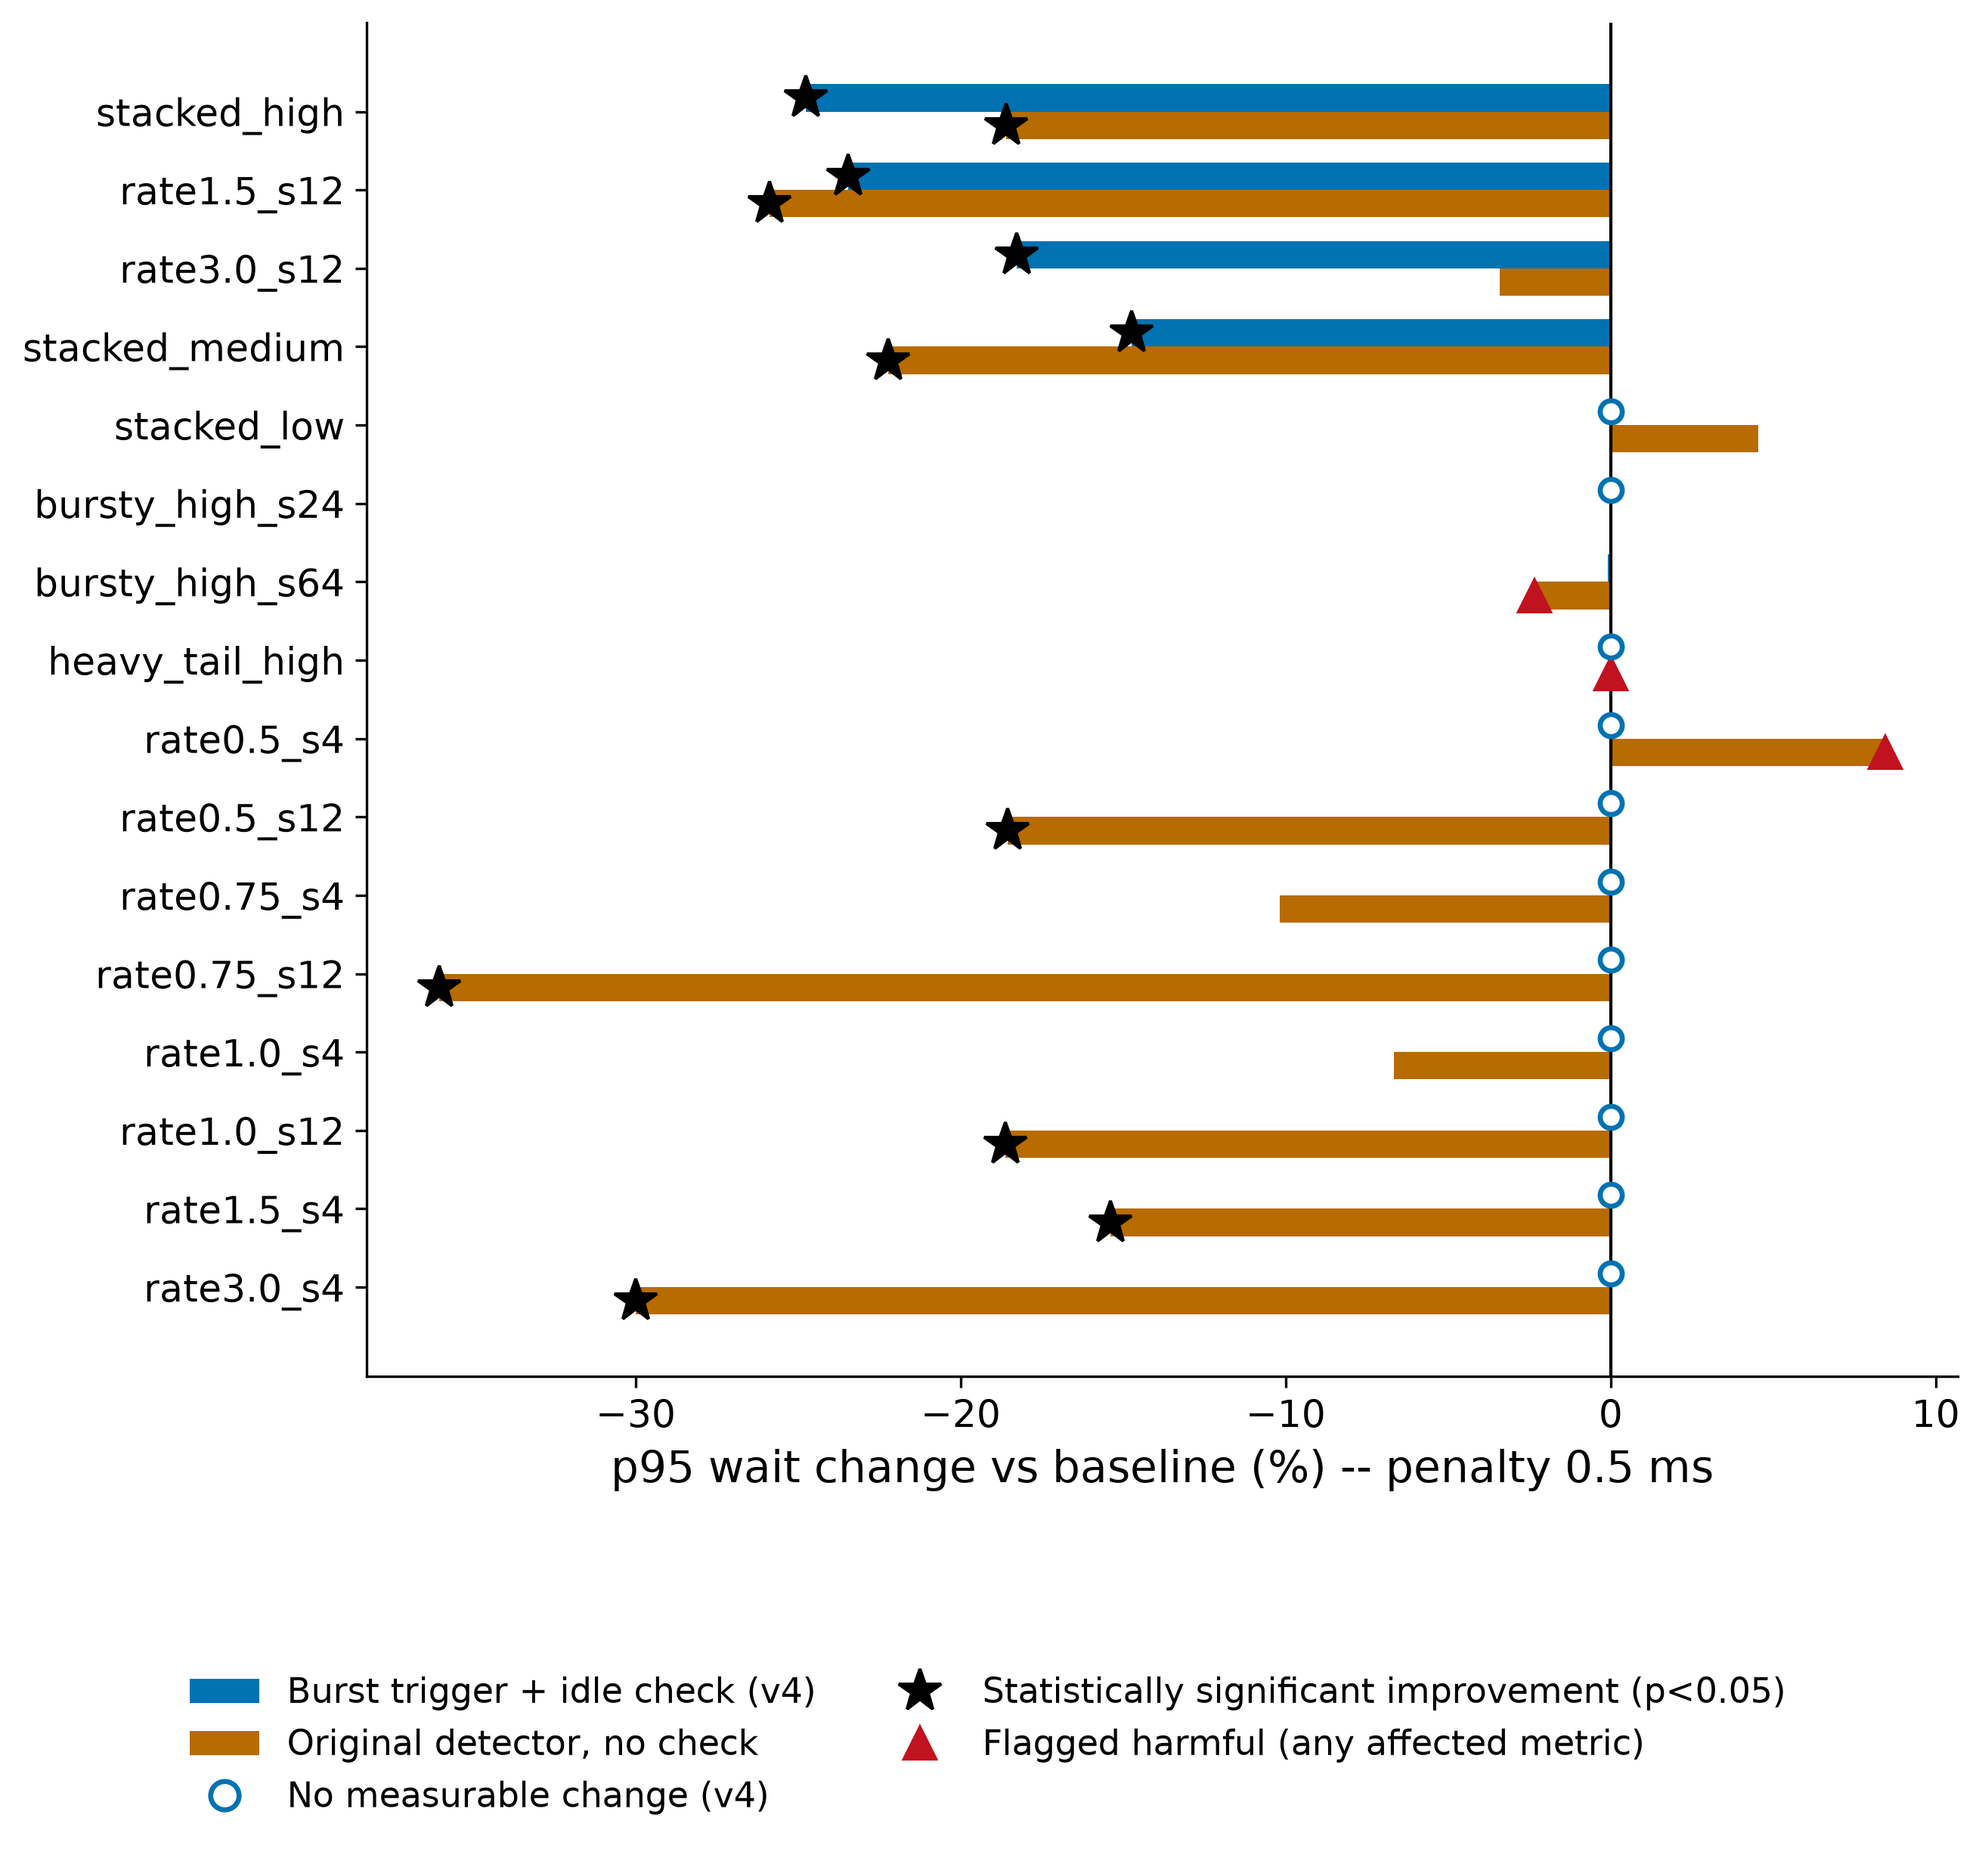
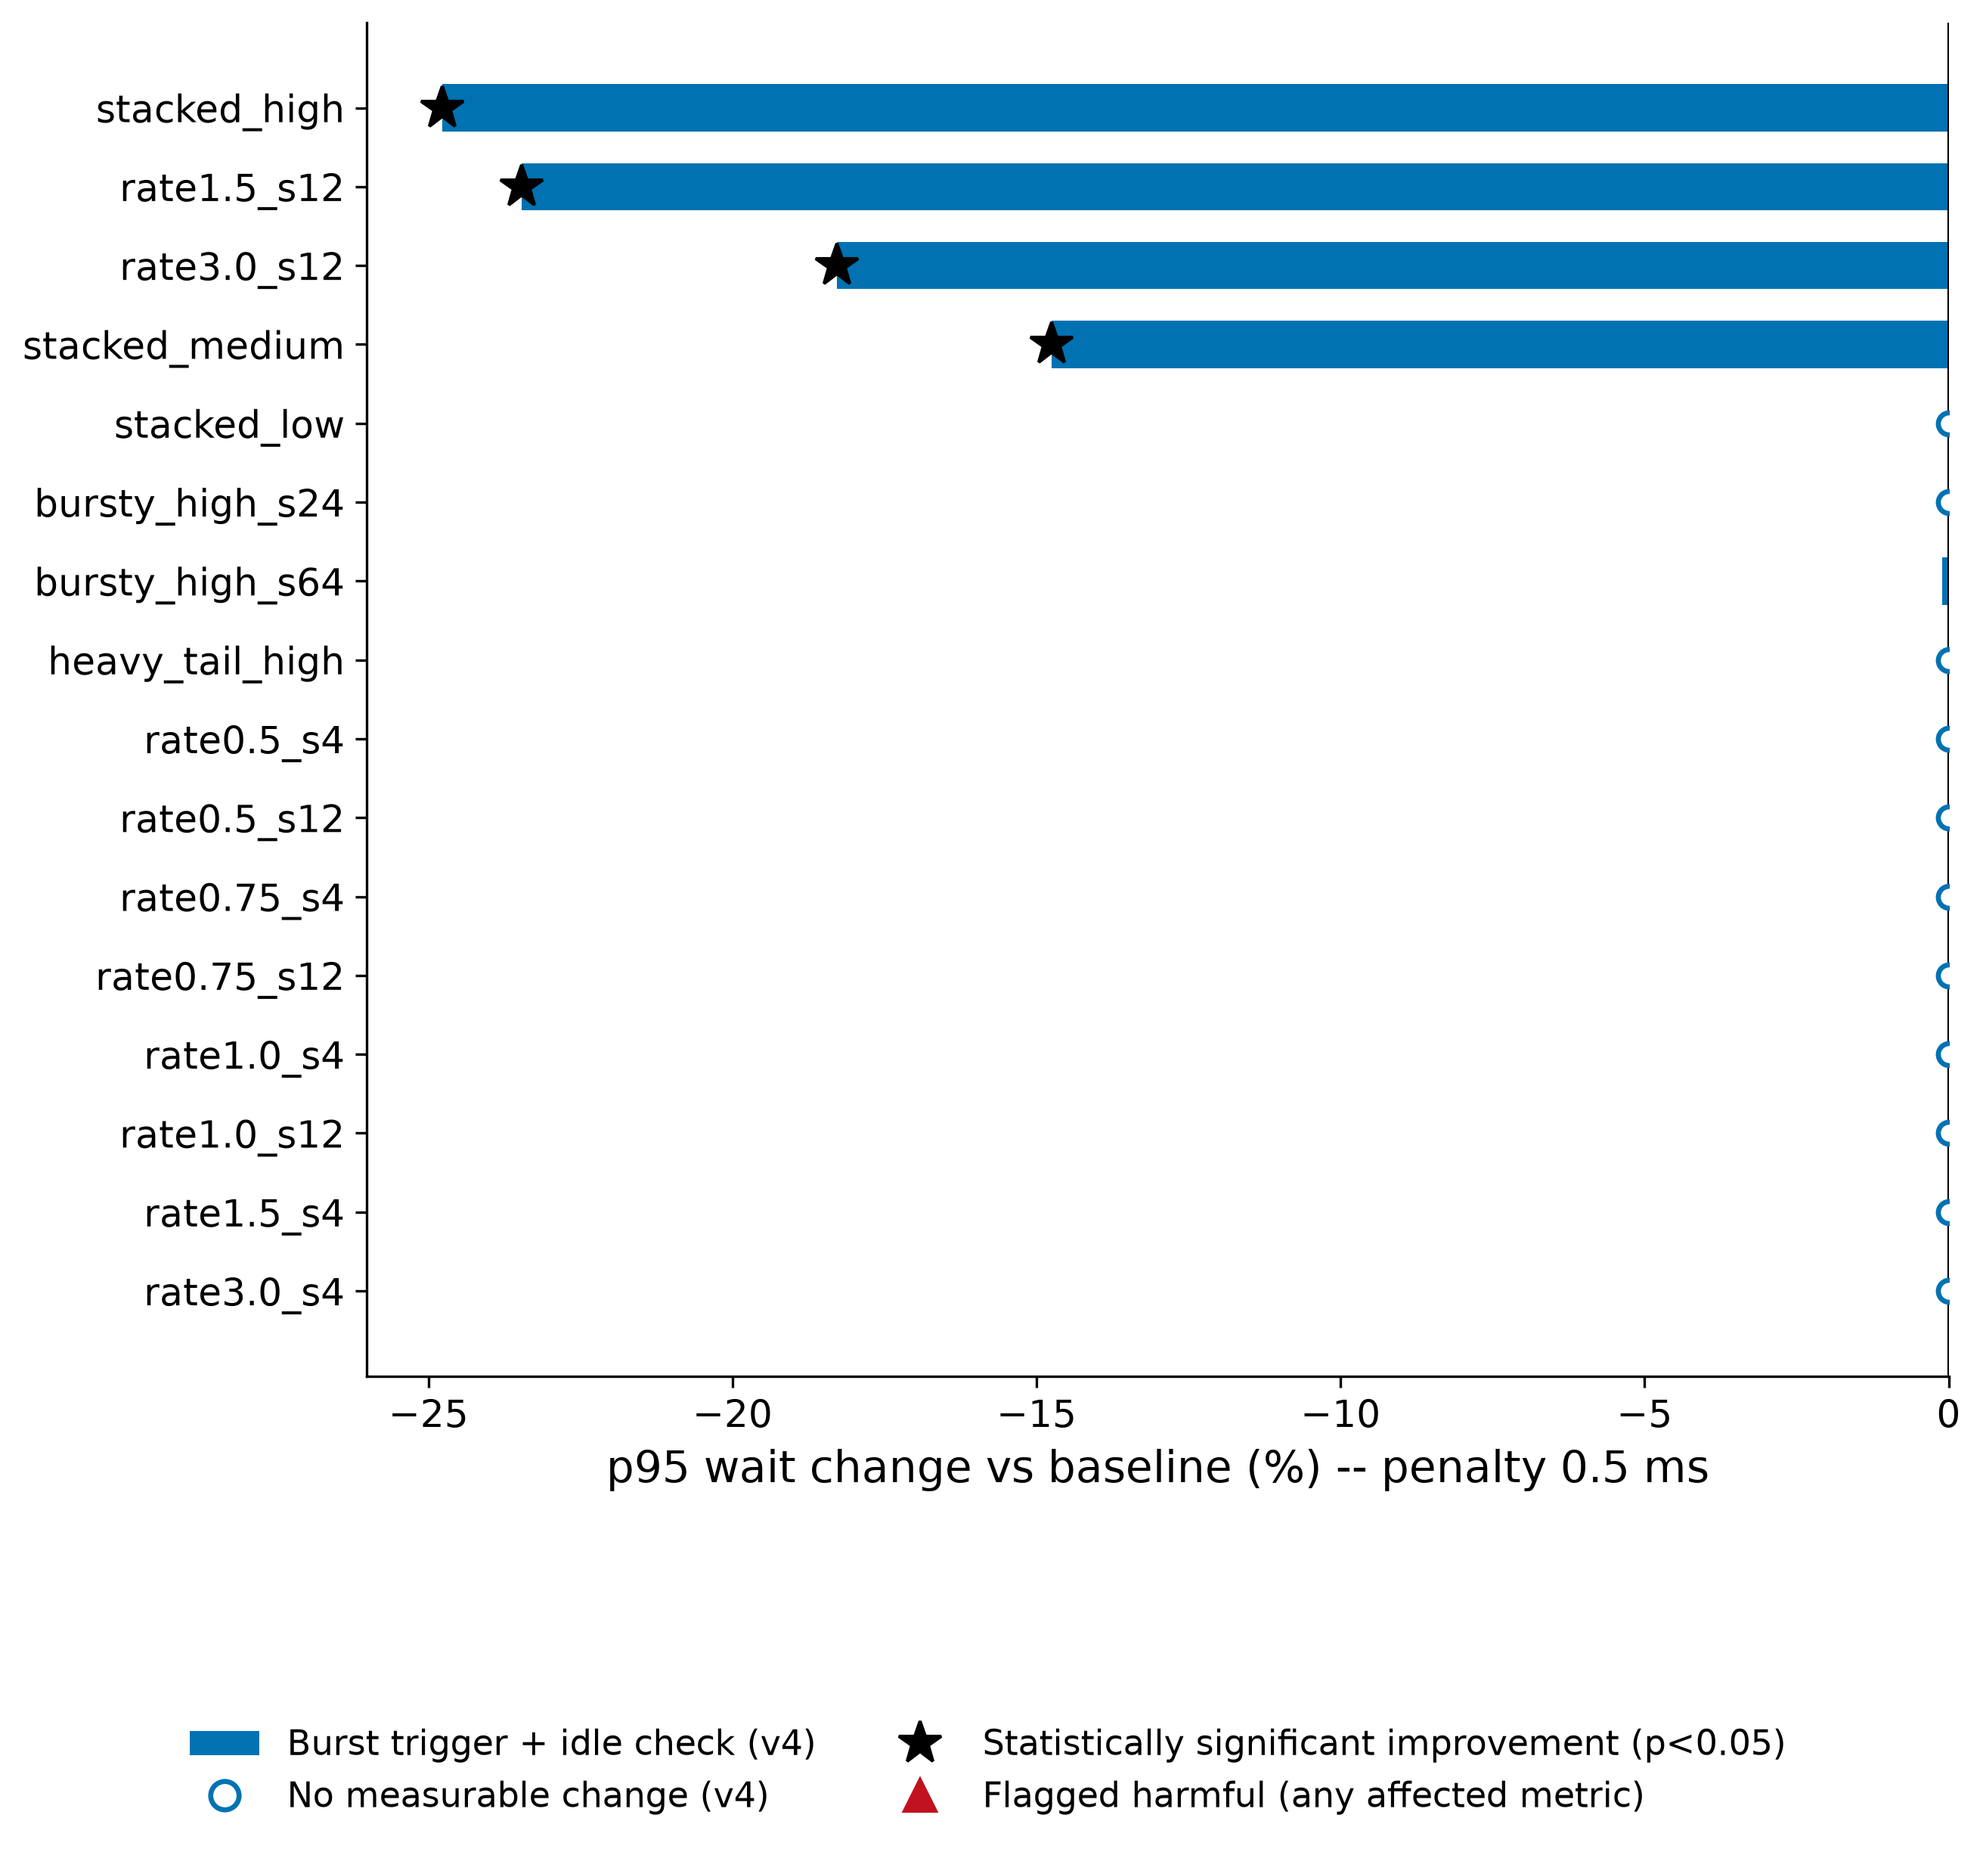
Figures 1 and 4: show selected configuration only

diff --git a/final_results/figures/make_figures.py b/final_results/figures/make_figures.py
@@ -61,14 +61,12 @@ LABELS = {
     "baseline": "Linux baseline",
     "selected_checked": "Burst trigger + idle check (v4)",
     "selected_unchecked": "Same trigger, no idle check",
-    "original_q2_a0.8_or_unchecked": "Original detector, no check",
 }
 
 COLOR = {
     "baseline": "#8C8C8C",
     "selected_checked": "#0072B2",
     "selected_unchecked": "#4A90C4",
-    "original_q2_a0.8_or_unchecked": "#B86B00",
     "harm": "#C1121F",
     "sig": "#000000",
 }
@@ -294,17 +292,12 @@ def fig0_calibration_grid():
 
 def fig1_headline():
     main = index_by_wl_pen(read_csv("results_task6_confirmation_v4_MAIN_TABLE.csv"))
-    orig = index_by_wl_pen(read_csv(
-        "results_task6_confirmation_v4_TABLE_original_q2_a0.8_or_unchecked.csv"))
 
     PEN = "0.5"
     checked_pct = {wl: fnum(main[(wl, PEN)], "p95_wait_pct") for wl in WORKLOAD_ORDER}
     checked_sig = {wl: fnum(main[(wl, PEN)], "p95_wait_sign_p") < SIG_ALPHA for wl in WORKLOAD_ORDER}
     checked_harm = {wl: is_harm(main[(wl, PEN)]) for wl in WORKLOAD_ORDER}
     checked_zero = {wl: abs(checked_pct[wl]) < ZERO_TOL for wl in WORKLOAD_ORDER}
-    orig_pct = {wl: fnum(orig[(wl, PEN)], "p95_wait_pct") for wl in WORKLOAD_ORDER}
-    orig_sig = {wl: fnum(orig[(wl, PEN)], "p95_wait_sign_p") < SIG_ALPHA for wl in WORKLOAD_ORDER}
-    orig_harm = {wl: is_harm(orig[(wl, PEN)]) for wl in WORKLOAD_ORDER}
 
     # "the workloads where v4 helps" -- derived from the data: a
     # meaningfully negative p95_wait_pct that is ALSO statistically
@@ -322,29 +315,19 @@ def fig1_headline():
 
     y = list(range(len(ordered_for_plot)))
     fig, ax = plt.subplots(figsize=(9, 7.5))
-    h = 0.35
-    ax.barh([yy + h / 2 for yy in y], [checked_pct[wl] for wl in ordered_for_plot],
-            height=h, color=COLOR["selected_checked"], label=LABELS["selected_checked"])
-    ax.barh([yy - h / 2 for yy in y], [orig_pct[wl] for wl in ordered_for_plot],
-            height=h, color=COLOR["original_q2_a0.8_or_unchecked"],
-            label=LABELS["original_q2_a0.8_or_unchecked"])
+    ax.barh(y, [checked_pct[wl] for wl in ordered_for_plot],
+            height=0.6, color=COLOR["selected_checked"], label=LABELS["selected_checked"])
 
     for yy, wl in zip(y, ordered_for_plot):
         if checked_zero[wl]:
-            ax.plot(0, yy + h / 2, marker="o", markersize=7,
+            ax.plot(0, yy, marker="o", markersize=7,
                     markerfacecolor="white", markeredgecolor=COLOR["selected_checked"],
                     markeredgewidth=1.6, zorder=6)
         if checked_sig[wl] and checked_pct[wl] < 0:
-            ax.plot(checked_pct[wl], yy + h / 2, marker="*", markersize=14,
+            ax.plot(checked_pct[wl], yy, marker="*", markersize=14,
                     color=COLOR["sig"], zorder=5)
         if checked_harm[wl]:
-            ax.plot(checked_pct[wl], yy + h / 2, marker="^", markersize=10,
-                    color=COLOR["harm"], zorder=5)
-        if orig_sig[wl] and orig_pct[wl] < 0:
-            ax.plot(orig_pct[wl], yy - h / 2, marker="*", markersize=14,
-                    color=COLOR["sig"], zorder=5)
-        if orig_harm[wl]:
-            ax.plot(orig_pct[wl], yy - h / 2, marker="^", markersize=10,
+            ax.plot(checked_pct[wl], yy, marker="^", markersize=10,
                     color=COLOR["harm"], zorder=5)
 
     ax.axvline(0, color="black", linewidth=1.0)
@@ -369,7 +352,7 @@ def fig1_headline():
     fig.tight_layout(rect=(0, 0.08, 1, 1))
 
     save(fig, "fig1_headline_p95wait_by_workload")
-    return dict(checked_pct=checked_pct, orig_pct=orig_pct)
+    return dict(checked_pct=checked_pct)
 
 
 # =============================================================== Fig 2 ==
@@ -538,34 +521,31 @@ def burst_size_of(workload):
 
 def fig4_arrival_rate():
     main = index_by_wl_pen(read_csv("results_task6_confirmation_v4_MAIN_TABLE.csv"))
-    orig = index_by_wl_pen(read_csv(
-        "results_task6_confirmation_v4_TABLE_original_q2_a0.8_or_unchecked.csv"))
 
     rates = [0.5, 0.75, 1.0, 1.5, 3.0]
     pen_lo, pen_hi = FIG4_PENALTIES
     linestyle = {pen_lo: "-", pen_hi: "--"}
     marker = {pen_lo: "o", pen_hi: "x"}
 
+    key = "selected_checked"
+    color = COLOR[key]
     fig, axes = plt.subplots(1, 2, figsize=(12, 5.5), sharey=True)
     for ax, size in zip(axes, [4, 12]):
-        for key, table in [("selected_checked", main),
-                            ("original_q2_a0.8_or_unchecked", orig)]:
-            color = COLOR[key]
-            for pen in FIG4_PENALTIES:
-                ys, harmed = [], []
-                for rate in rates:
-                    wl = f"rate{rate}_s{size}"
-                    row = table[(wl, pen)]
-                    ys.append(fnum(row, "p95_wait_pct"))
-                    harmed.append(is_harm(row))
-                print(f"Fig 4 burst_size={size} {key} penalty={pen}: {ys} "
-                      f"(harm={harmed})")
-                ax.plot(rates, ys, linestyle=linestyle[pen], marker=marker[pen],
-                        color=color, label=f"{LABELS[key]} (penalty={pen}ms)")
-                for rate, yval, h in zip(rates, ys, harmed):
-                    if h:
-                        ax.plot(rate, yval, marker="^", markersize=10,
-                                color=COLOR["harm"], zorder=6)
+        for pen in FIG4_PENALTIES:
+            ys, harmed = [], []
+            for rate in rates:
+                wl = f"rate{rate}_s{size}"
+                row = main[(wl, pen)]
+                ys.append(fnum(row, "p95_wait_pct"))
+                harmed.append(is_harm(row))
+            print(f"Fig 4 burst_size={size} {key} penalty={pen}: {ys} "
+                  f"(harm={harmed})")
+            ax.plot(rates, ys, linestyle=linestyle[pen], marker=marker[pen],
+                    color=color, label=f"{LABELS[key]} (penalty={pen}ms)")
+            for rate, yval, h in zip(rates, ys, harmed):
+                if h:
+                    ax.plot(rate, yval, marker="^", markersize=10,
+                            color=COLOR["harm"], zorder=6)
         ax.axhline(0, color="black", linewidth=1.0)
         ax.set_xlabel("Arrival rate during burst (tasks/ms)")
         ax.annotate(f"burst size = {size}", xy=(0.04, 0.04), xycoords="axes fraction",
